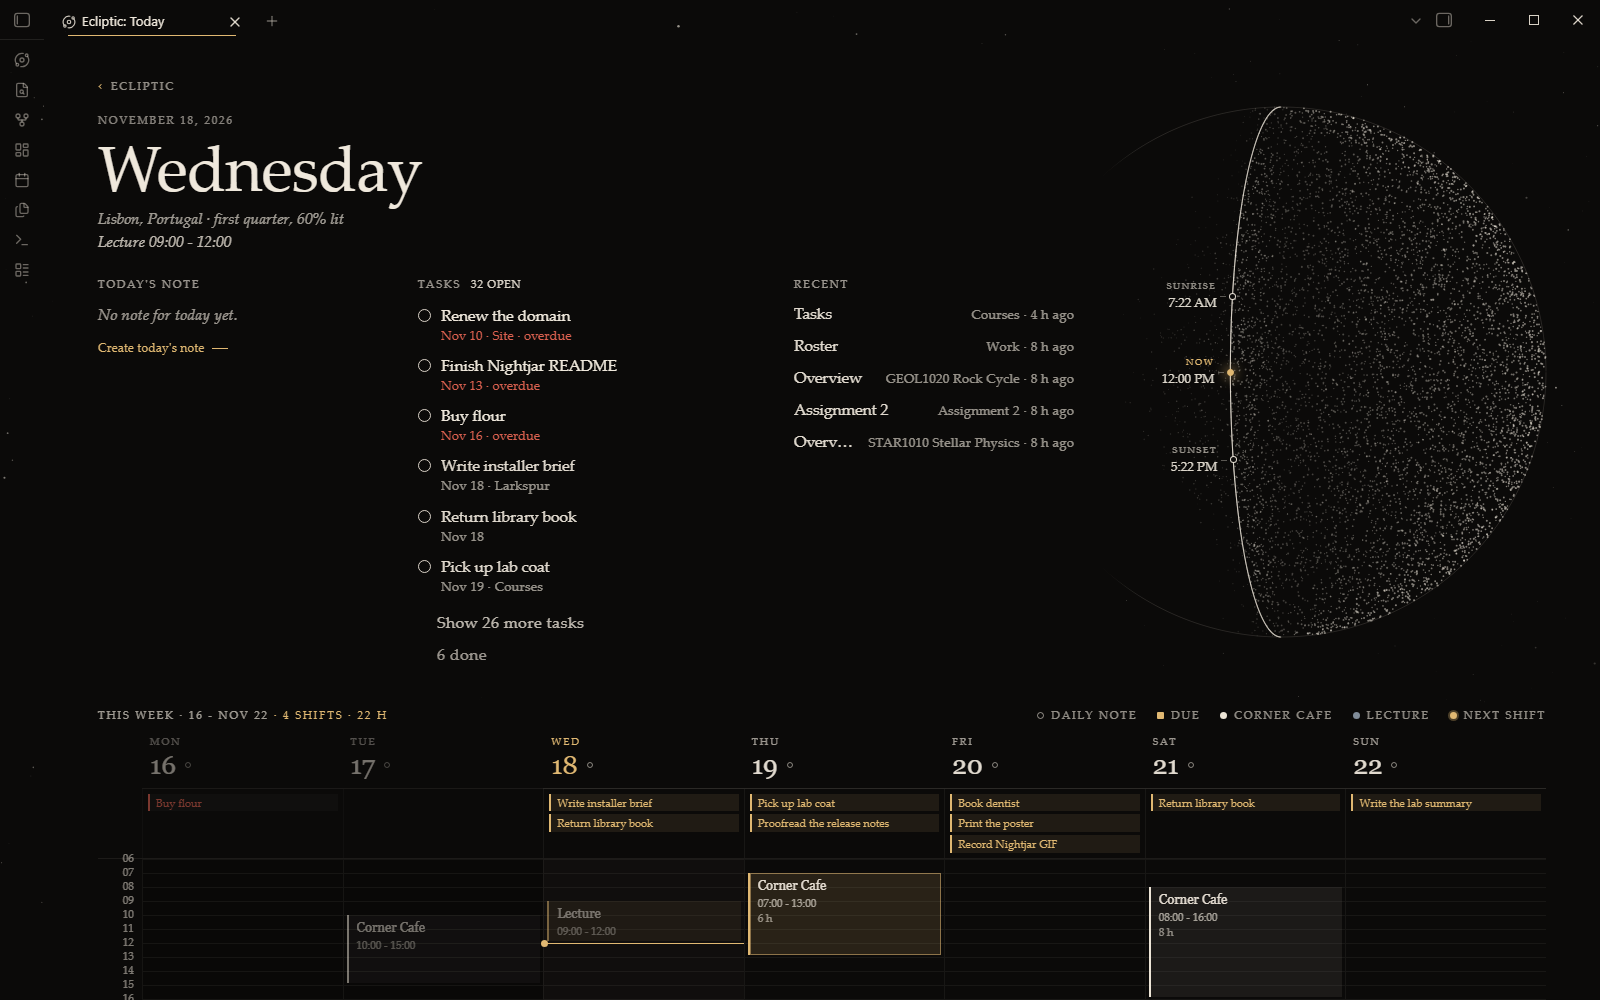
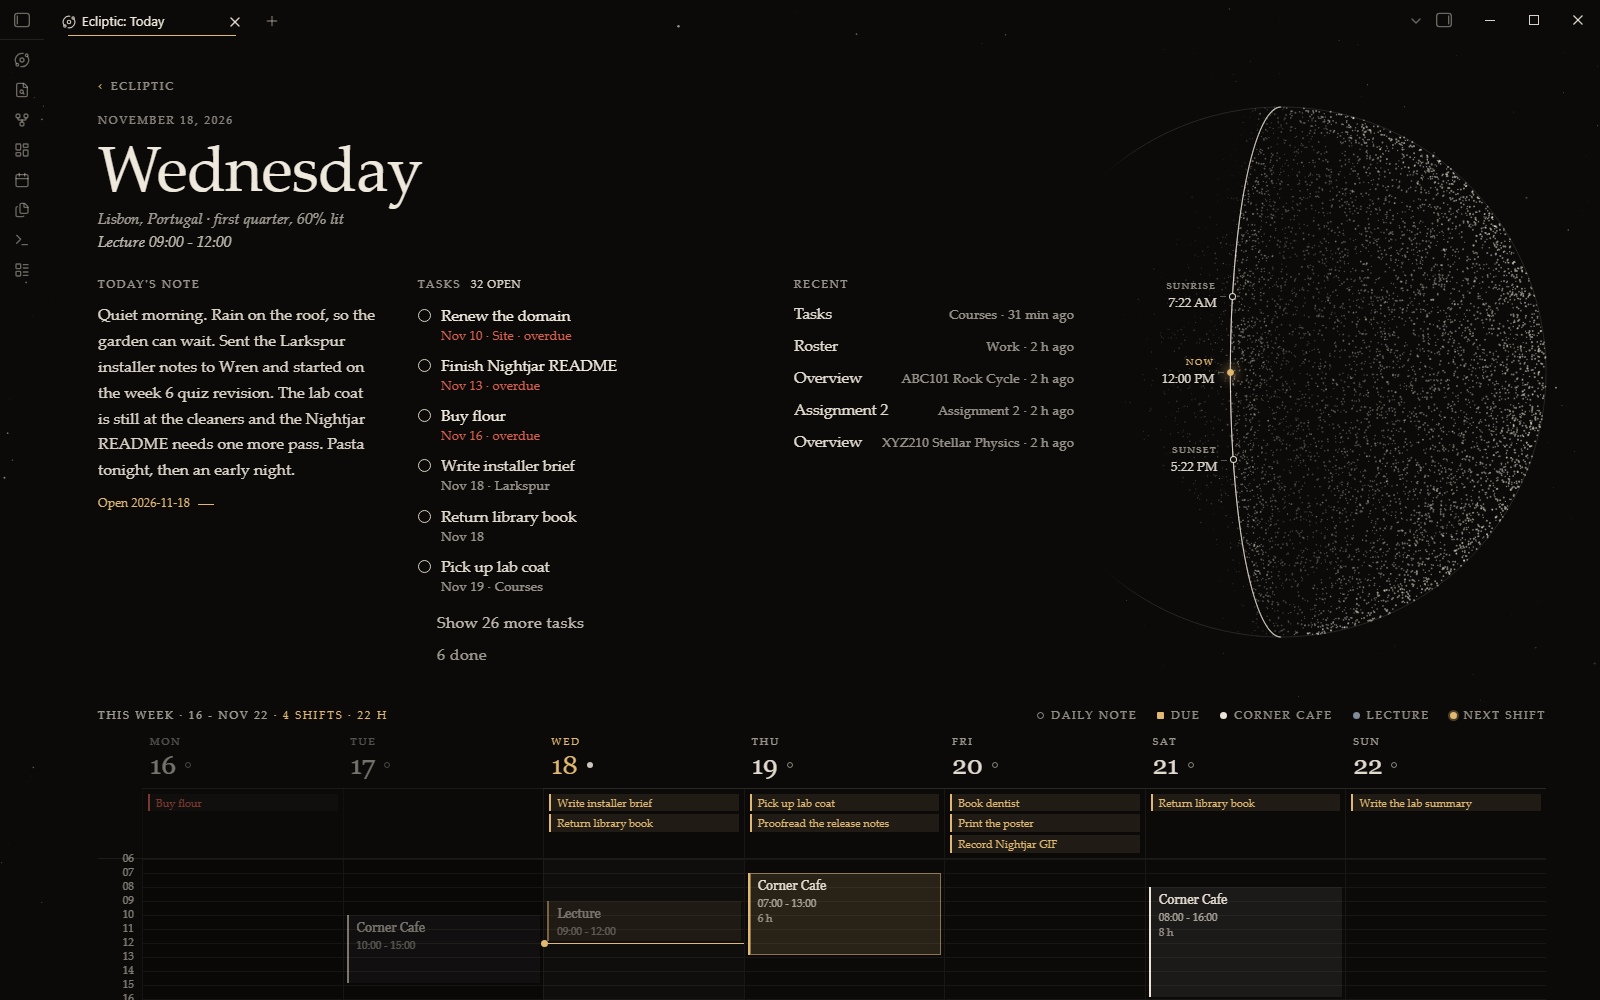
Pre-launch fixes from demo recording

diff --git a/main.js b/main.js
@@ -4583,6 +4583,24 @@ function* phaseMoonGen(ctx, o) {
   }
 }
 
+// The tick box of a task row, shared by the wide and the narrow Today: a checkbox that writes [x] (and the done date) into the note;
+// a tap on the row itself still opens the note.
+function taskBox(view, plugin, el, t) {
+  const box = el.createEl("i", { attr: { role: "checkbox", "aria-label": "Mark done", "aria-checked": String(!!t.done), tabindex: "0" } });
+  if (t.done || t.line == null) return box;
+  const tick = async (ev) => {
+    ev.stopPropagation(); ev.preventDefault();
+    if (el.hasClass("is-done")) return;
+    el.addClass("is-done"); box.setAttr("aria-checked", "true");
+    const ok = await plugin.tickTask(t.path, t.line, t.title);
+    if (ok === "open") { el.removeClass("is-done"); box.setAttr("aria-checked", "false"); new obsidian.Notice("This task repeats. Tick it in the note, where the Tasks plugin can add the next one."); view.openNote(t.path, t.line); }
+    else if (!ok) { el.removeClass("is-done"); box.setAttr("aria-checked", "false"); new obsidian.Notice("That task has moved in its note. Open the note to tick it."); }
+  };
+  box.addEventListener("click", tick);
+  box.addEventListener("keydown", (ev) => { if (ev.key === " " || ev.key === "Enter") tick(ev); });
+  return box;
+}
+
 function renderToday(view, host, d, sliced) {
   if (host.clientWidth >= WIDE_MIN) { host.removeClass("is-wide"); return renderTodayWide(view, host, d, sliced); }
   host.removeClass("is-wide");
@@ -4650,7 +4668,7 @@ function renderToday(view, host, d, sliced) {
     const rows = tsec.createDiv("ecl-t-rows");
     const row = (t) => {
       const el = rows.createDiv({ cls: "ecl-t-task" + (t.overdue ? " is-overdue" : "") + (t.done ? " is-done" : "") });
-      el.createEl("i");
+      taskBox(view, plugin, el, t);
       el.createSpan({ cls: "ecl-t-what", text: t.title });
       const meta = [t.due, t.folder, t.overdue ? "overdue" : ""].filter(Boolean).join(" · ");
       if (meta) el.createEl("small", { text: meta });
@@ -5178,19 +5196,7 @@ function renderTodayWide(view, host, d, sliced) {
     const rows = tsec.createDiv("ecl-t-rows");
     const row = (t) => {
       const el = rows.createDiv({ cls: "ecl-t-task" + (t.overdue ? " is-overdue" : "") + (t.done ? " is-done" : "") });
-      const box = el.createEl("i", { attr: { role: "checkbox", "aria-label": "Mark done", "aria-checked": String(!!t.done), tabindex: "0" } });
-      if (!t.done && t.line != null) {
-        const tick = async (ev) => {
-          ev.stopPropagation(); ev.preventDefault();
-          if (el.hasClass("is-done")) return;
-          el.addClass("is-done"); box.setAttr("aria-checked", "true");
-          const ok = await plugin.tickTask(t.path, t.line, t.title);
-          if (ok === "open") { el.removeClass("is-done"); box.setAttr("aria-checked", "false"); new obsidian.Notice("This task repeats. Tick it in the note, where the Tasks plugin can add the next one."); view.openNote(t.path, t.line); }
-          else if (!ok) { el.removeClass("is-done"); box.setAttr("aria-checked", "false"); new obsidian.Notice("That task has moved in its note. Open the note to tick it."); }
-        };
-        box.addEventListener("click", tick);
-        box.addEventListener("keydown", (ev) => { if (ev.key === " " || ev.key === "Enter") tick(ev); });
-      }
+      taskBox(view, plugin, el, t);
       el.createSpan({ cls: "ecl-t-what", text: t.title });
       const meta = [t.due, t.folder, t.overdue ? "overdue" : ""].filter(Boolean).join(" · ");
       if (meta) el.createEl("small", { text: meta });

diff --git a/styles.css b/styles.css
@@ -560,6 +560,10 @@ a.ecl-t-setplace:hover { color: rgb(var(--ecl-ink)); border-bottom-color: rgba(v
 /* Hover brightens to full ink; the signal colour is reserved for NOW and the one "Open today's note" link. */
 .ecl-t-task:hover .ecl-t-what, .ecl-t-recent:hover .ecl-t-what { color: rgb(var(--ecl-ink)); }
 .ecl-t-task:hover i { background: rgba(var(--ecl-ink), .25); }
+/* The narrow and phone Today's tick box: the dot stays small, its tap area is 40 px (the row text beside it still opens the note). */
+.ecl-landing:not(.is-wide) .ecl-t-task i[role="checkbox"] { position: relative; cursor: pointer; }
+.ecl-landing:not(.is-wide) .ecl-t-task i[role="checkbox"]::after { content: ""; position: absolute; top: 50%; left: -15px; width: 40px; height: 40px; margin-top: -20px; }
+.is-phone .ecl-t-task:not(.is-more):not(.is-fold):not(.is-sched) { min-height: 40px; gap: 16px; padding-left: 15px; } /* the column clips at its left edge: the dot sits 15px in so its 40px tap area is whole */
 /* Overdue: the title stays in normal ink; only the small date carries the world's warn colour, dimmed, so the signal colour stays the one accent. */
 .ecl-t-task.is-overdue small { color: var(--ecl-warn, rgba(var(--ecl-ink), .9)); font-weight: 400; letter-spacing: .02em; } /* the world's warning colour at normal weight, not bold bright ink (ON5 V2) */
 .ecl-t-task.is-overdue .ecl-t-what { color: rgba(var(--ecl-ink), 1); }

diff --git a/CHANGELOG.md b/CHANGELOG.md
@@ -9,7 +9,7 @@ First release.
 - Folder pages picked from what is inside: work and career, journal, courses, projects, reading queue and plain folders. "Change" on a page picks another type.
 - Before it's due: for each deadline in the next two weeks, the free hours before it against the hours it needs, after shifts, classes and travel. Hours needed come from an `effort` field, from the weight, or are shown as unknown.
 - Free hours are capped at 6 h a day by default, so a free weekend does not count as twelve hours of work. Change it with "Most hours you'd work in a day" in settings; 0 turns the cap off.
-- Tasks tick off in place, and today's note can be created from Today.
+- Tasks tick off in place, on the phone as well as on the wide page, and today's note can be created from Today.
 - Worlds to travel between (Saturn, Earth and more), with an optional whole-app colour theme, asked once on first open.
 - Place for sunrise and sunset, with optional live weather. Both are off until you set them.
 - When there are more folders than fit around the planet, Home says "+N more folders"; tapping it opens the folder list in settings.
